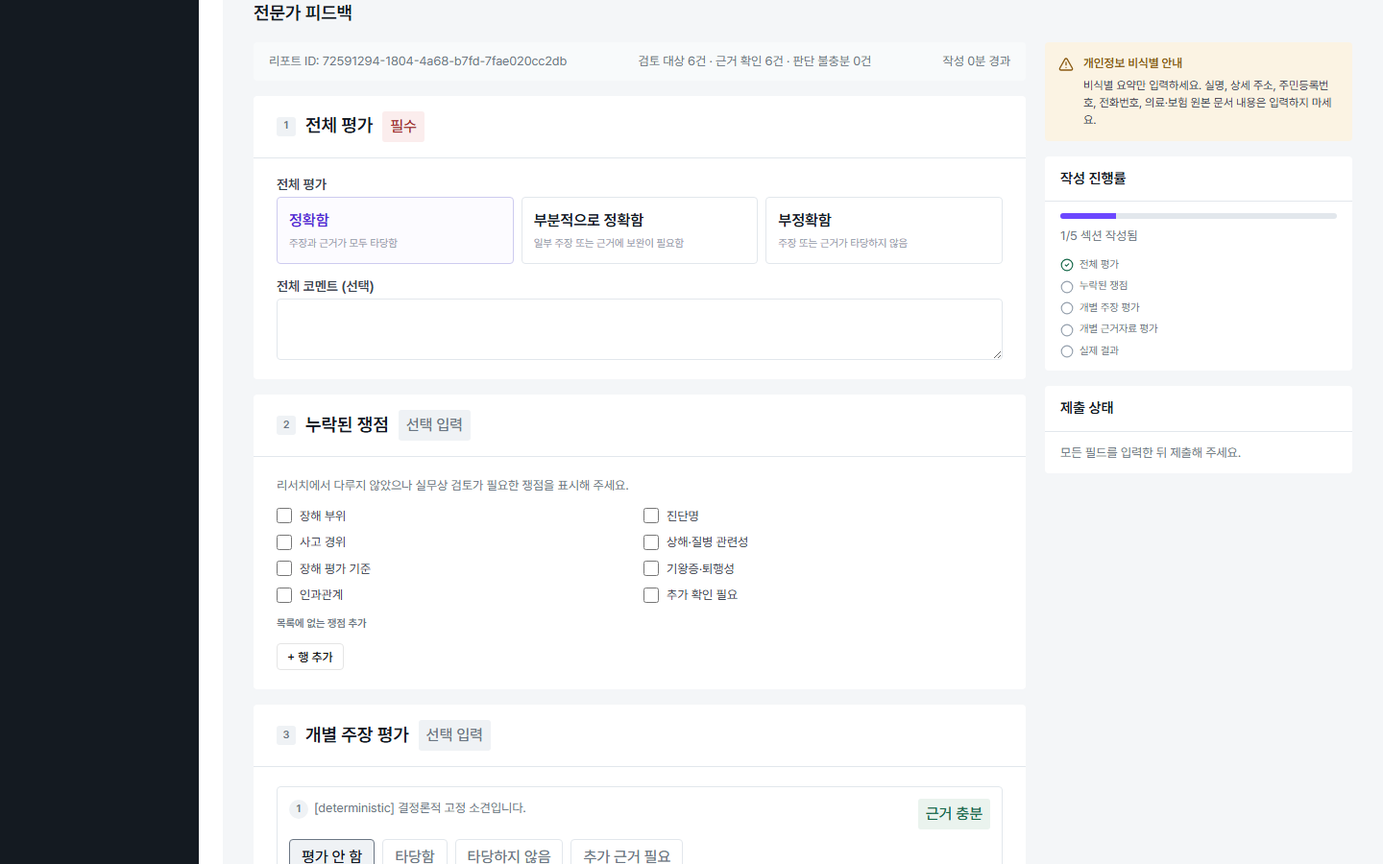
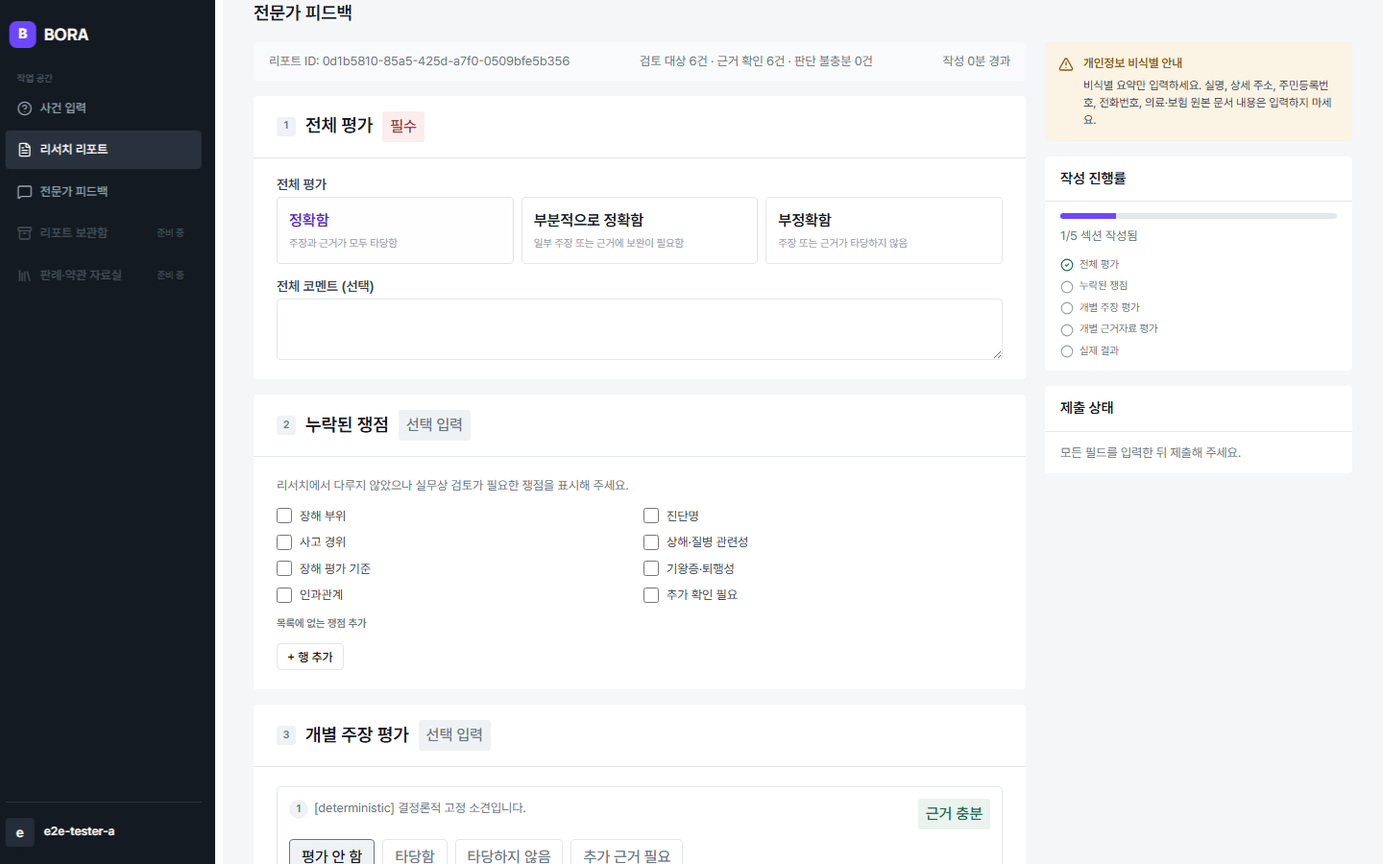
fix(SPEC-UI-MIGRATION-001): 런타임 오류 화면 실제 재현 + 데스크톱 사이드바 sticky 수정
외부 재검토가 지적한 결함 2건을 정직하게 재검증하고 정정한다.

1. app/cases/[caseId]/error.tsx — "코드 무변경"을 시각 확인의 대체물로
   취급했던 판정을 되돌리고, 결정론적 DB 손상(reports.content.
   verifiedClaims 제거)으로 실제 런타임 오류 경계를 프로덕션 서버에서
   재현·캡처했다(신규 e2e 테스트 1건). App Shell 적용/에러코드 없음이
   design.md 명세와 정확히 일치함을 확인.

2. app/cases/app-shell-chrome.tsx — 데스크톱(lg 이상) 사이드바를
   static -> sticky(+top-0+h-screen)로 전환. /cases/new처럼 폼이
   뷰포트보다 긴 화면에서 하단 사용자 블록이 뷰포트 밖으로 밀리던 결함을
   수정(design/exports/04-App-Shell.png가 "사이드바 고정"을 명시 —
   AskUserQuestion으로 사용자 승인 받음). 신규 회귀 테스트
   e2e/sidebar-sticky.spec.ts 추가, 기존 드로어 접근성 테스트 18/18 +
   모바일 드로어 e2e 무회귀 확인.

acceptance.md §3/§4, progress.md에 사용자 결정·측정값·검증 결과를
정직하게 기록(로컬 검증, GitHub Actions 미구성).

PRESERVE 대상(lib/db/schema.ts 등) 무변경 확인. pnpm test 395/395,
lint 0, build exit 0, format:check 신규 위반 0, test:e2e 3회 exit 0
(retry 2건 — 기존에 규명된 rate-limit 충돌, flaky debt로 기록).

🗿 MoAI

diff --git a/e2e/capture-evidence-round5.spec.ts b/e2e/capture-evidence-round5.spec.ts
@@ -66,6 +66,27 @@ test.describe("Round 5 시각 증빙 캡처", () => {
     }
   });
 
+  // correction pass (3차, 사용자 승인 2026-09-08) — 데스크톱 App Shell
+  // 사이드바를 static → sticky로 전환한 뒤, 폼이 뷰포트보다 긴 /cases/new
+  // 화면에서 사이드바 하단 사용자 블록이 초기 뷰포트 안에 보이는지 재캡처.
+  // Pencil design/exports/04-App-Shell.png 자체가 "좌측 사이드바 232px +
+  // 상단바 62px 고정"이라고 명시하므로, 이 캡처는 그 고정 사이드바 의도와의
+  // 정합을 시각적으로 재확인하는 증빙이다.
+  test("사이드바 sticky 재캡처 — /cases/new에서 사용자 블록 초기 뷰포트 가시성", async ({
+    page,
+  }) => {
+    await loginAsTester(page, TESTER_A_EMAIL);
+    for (const vp of DESKTOP_VIEWPORTS) {
+      await page.setViewportSize({ width: vp.width, height: vp.height });
+      await page.goto("/cases/new");
+      await page.waitForLoadState("networkidle");
+      await page.screenshot({
+        path: path.join(EVIDENCE_DIR, `case-input-sticky-sidebar-${vp.label}.png`),
+        fullPage: false,
+      });
+    }
+  });
+
   test("모바일 사건 입력 Footer — 재캡처(레이아웃 붕괴 수정 확인)", async ({ page }) => {
     await loginAsTester(page, TESTER_A_EMAIL);
     await page.setViewportSize({ width: 390, height: 844 });
@@ -224,6 +245,80 @@ test.describe("Round 5 시각 증빙 캡처", () => {
       path: path.join(EVIDENCE_DIR, "report-verified-claim-1440.png"),
       fullPage: false,
     });
+  });
+
+  // correction pass (2차) — acceptance.md §3의 "실재하는 예외 화면 3종" 중
+  // 기존 일시 런타임 오류(app/cases/[caseId]/error.tsx)는 "코드 무변경"이라는
+  // 이유만으로 별도 시각 확인 없이 [x] 체크됐었다 — 외부 재검토가 지적한 대로
+  // 코드 무변경은 실제 렌더링 확인을 대체하지 못한다. 정상 플로우로는 이
+  // 오류 경계가 트리거되지 않으므로(report.verifiedClaims는 항상 배열),
+  // INSUFFICIENT fixture와 동일한 기법으로 DB row를 결정론적으로 손상시켜
+  // page.tsx의 실제 코드 경로(`report.verifiedClaims.flatMap(...)`, report는
+  // truthy이지만 verifiedClaims가 없어 TypeError)가 Next.js의 실제 오류
+  // 경계로 이어지는지 실제 브라우저에서 관찰한다.
+  test("런타임 오류 경계 — 실제 예외 트리거 후 error.tsx 렌더링 캡처", async ({ page }) => {
+    await loginAsTester(page, TESTER_A_EMAIL);
+    const caseId = await createCase(page, {
+      incidentDescription: "계단에서 넘어져 발목을 다쳤습니다.",
+      diagnosisName: "발목 인대 파열",
+      disabilityBodyPart: "발목",
+      incidentDate: "2026-01-15",
+    });
+
+    const { db, close } = connectE2EDb();
+    try {
+      const [reportRow] = await db
+        .select()
+        .from(schema.reports)
+        .where(eq(schema.reports.caseId, caseId))
+        .limit(1);
+      expect(reportRow, "report row must exist before corruption").toBeDefined();
+
+      const original = reportRow!.content as Record<string, unknown>;
+      // report 자체는 truthy 객체로 유지하되 verifiedClaims만 제거한다 —
+      // page.tsx의 `report ? report.verifiedClaims.flatMap(...) : []` 가드는
+      // report의 truthiness만 확인하고 verifiedClaims의 shape는 확인하지
+      // 않으므로, 이 상태는 실제로 TypeError를 던진다(테스트 전용 조작).
+      const corrupted: Record<string, unknown> = { ...original };
+      delete corrupted.verifiedClaims;
+      await db
+        .update(schema.reports)
+        .set({ content: corrupted })
+        .where(eq(schema.reports.id, reportRow!.id));
+    } finally {
+      close();
+    }
+
+    await page.setViewportSize({ width: 1440, height: 900 });
+    await page.goto(`/cases/${caseId}`);
+    await page.waitForLoadState("networkidle");
+
+    // 캡처 전에 실제로 error.tsx가 렌더링됐는지(정상 리포트 화면이 아니라)
+    // 확인한다 — 코드 무변경 주장을 시각 확인으로 대체하지 않기 위해.
+    await expect(page.getByText("문제가 발생했습니다")).toBeVisible();
+    const retryButton = page.getByTestId("case-error-retry");
+    await expect(retryButton).toBeVisible();
+
+    await page.screenshot({
+      path: path.join(EVIDENCE_DIR, "runtime-error-1440.png"),
+      fullPage: false,
+    });
+
+    await page.setViewportSize({ width: 1024, height: 768 });
+    await page.reload();
+    await page.waitForLoadState("networkidle");
+    await expect(page.getByText("문제가 발생했습니다")).toBeVisible();
+    await page.screenshot({
+      path: path.join(EVIDENCE_DIR, "runtime-error-1024.png"),
+      fullPage: false,
+    });
+
+    // 재시도 버튼 동작 확인 — reset()이 실제로 호출되어 재렌더링을
+    // 시도한다(데이터는 여전히 손상 상태이므로 오류 화면이 다시 나타나는
+    //것이 정상 — 버튼 자체가 크래시 없이 동작함을 확인하는 것이 목적).
+    await retryButton.click();
+    await page.waitForTimeout(500);
+    await expect(page.getByText("문제가 발생했습니다")).toBeVisible();
   });
 
   test("모바일 리포트+피드백 전체 페이지 — Round5 UX 검토용 재캡처", async ({ page }) => {

diff --git a/e2e/sidebar-sticky.spec.ts b/e2e/sidebar-sticky.spec.ts
@@ -1,0 +1,78 @@
+// e2e/sidebar-sticky.spec.ts
+// SPEC-UI-MIGRATION-001 correction pass (2026-09-08, 사용자 승인) —
+// 데스크톱(lg 이상) App Shell 사이드바가 뷰포트 높이 기준으로 고정되어,
+// 폼이 뷰포트보다 긴 화면(/cases/new)에서도 사이드바 하단 사용자 블록이
+// 초기 뷰포트 안에 보이는지 실제 브라우저에서 검증한다. jsdom은 실제
+// sticky/layout 계산을 수행하지 않으므로(app-shell-chrome.test.tsx는
+// 접근성 계약만 검증), 이 계약은 Playwright로만 검증 가능하다.
+import { test, expect } from "@playwright/test";
+import { loginAsTester } from "./helpers.ts";
+import { TESTER_A_EMAIL } from "../scripts/e2e-tester-emails.ts";
+
+const DESKTOP_VIEWPORTS = [
+  { width: 1024, height: 768, label: "1024" },
+  { width: 1440, height: 900, label: "1440" },
+] as const;
+
+test.describe("데스크톱 사이드바 sticky — 사용자 블록 초기 뷰포트 가시성", () => {
+  test("긴 폼 화면(/cases/new)에서 사용자 블록이 스크롤 없이 보인다", async ({ page }) => {
+    await loginAsTester(page, TESTER_A_EMAIL);
+
+    for (const vp of DESKTOP_VIEWPORTS) {
+      await page.setViewportSize({ width: vp.width, height: vp.height });
+      await page.goto("/cases/new");
+      await page.waitForLoadState("networkidle");
+
+      const aside = page.getByTestId("mobile-nav-drawer");
+      const asideBox = await aside.boundingBox();
+      expect(asideBox, `${vp.label}px: aside bounding box must exist`).not.toBeNull();
+      // sticky + h-screen이면 aside 자신의 높이는 뷰포트 높이와 같아야
+      // 한다(폼 콘텐츠 높이와 무관) — 회귀 시 이 값이 뷰포트보다 훨씬
+      // 커진다(수정 전 실측: 1024px에서 1268.75px).
+      expect(
+        asideBox!.height,
+        `${vp.label}px: aside height must match viewport (sticky), not stretch to sibling content height`
+      ).toBeLessThanOrEqual(vp.height + 1);
+
+      // 사용자 블록(이니셜 배지 + 이름) 텍스트 노드의 위치가 초기 뷰포트
+      // 안에 있는지 확인 — 스크롤 없이 보여야 한다(수정 전 실측: 1024px에서
+      // y=1226.375px, 뷰포트 밖).
+      const userBlockText = page.locator("aside p.truncate").first();
+      await expect(userBlockText).toBeVisible();
+      const userBlockBox = await userBlockText.boundingBox();
+      expect(userBlockBox, `${vp.label}px: user block bounding box must exist`).not.toBeNull();
+      expect(
+        userBlockBox!.y + userBlockBox!.height,
+        `${vp.label}px: user block must be within the initial viewport without scrolling`
+      ).toBeLessThanOrEqual(vp.height);
+
+      // 본문(app-shell-content)이 실제로 렌더링됐는지 sanity 확인 — 폼이
+      // 전혀 안 그려진 채 우연히 사이드바-only 상태로 테스트를 통과하는
+      // 것을 방지한다. 1024px에서는 폼이 뷰포트보다 실제로 길다는 것을
+      // 알고 있으므로(수정 전 aside 높이 1268.75px로 실측) 그 경계로
+      // 확인하고, 1440px는 더 넓은 폭에서 폼이 재배치되며 뷰포트 안에
+      // 들어갈 수 있으므로 뷰포트 대비 비교 대신 절대 최소 높이만 확인한다.
+      const contentScrollHeight = await page
+        .getByTestId("app-shell-content")
+        .evaluate((el) => el.scrollHeight);
+      if (vp.label === "1024") {
+        expect(
+          contentScrollHeight,
+          `${vp.label}px: main content must still be taller than the viewport (regression guard — the original bug reproduces here)`
+        ).toBeGreaterThan(vp.height);
+      } else {
+        expect(
+          contentScrollHeight,
+          `${vp.label}px: main content must have actually rendered (sanity check)`
+        ).toBeGreaterThan(400);
+      }
+
+      // 가로 오버플로 없음(sticky/fixed 전환으로 인한 부작용 확인).
+      const scrollWidth = await page.evaluate(() => document.documentElement.scrollWidth);
+      expect(
+        scrollWidth,
+        `${vp.label}px: no horizontal overflow introduced by sticky sidebar`
+      ).toBeLessThanOrEqual(vp.width);
+    }
+  });
+});

diff --git a/app/cases/app-shell-chrome.tsx b/app/cases/app-shell-chrome.tsx
@@ -167,7 +167,19 @@ export function AppShellChrome({ children }: { children: ReactNode }) {
         data-testid="mobile-nav-drawer"
         inert={isDrawerInert ? true : undefined}
         onKeyDown={handleDrawerKeyDown}
-        className={`fixed inset-y-0 left-0 z-50 flex w-58 shrink-0 flex-col justify-between bg-app-sidebar px-3.5 pt-5.5 pb-4.5 transition-transform duration-200 ease-out lg:static lg:z-auto lg:translate-x-0 ${
+        // 데스크톱(lg 이상)에서 static → sticky로 전환한다(외부 재검토
+        // correction pass, 사용자 승인 2026-09-08). static일 때는 aside가
+        // 형제 컬럼(본문)의 실제 콘텐츠 높이만큼 늘어나(justify-between으로
+        // 하단에 배치된 SidebarUserBlock도 그 늘어난 높이의 맨 아래로
+        // 밀림), /cases/new처럼 폼이 뷰포트보다 긴 화면에서는 사용자 블록을
+        // 보려면 페이지 끝까지 스크롤해야 했다. sticky + top-0 + h-screen은
+        // aside를 뷰포트 높이로 고정하고 스크롤 중에도 뷰포트 상단에
+        // 붙어 있게 하여, 본문이 그 옆에서 독립적으로 스크롤되는 동안
+        // 사용자 블록이 항상 초기 뷰포트 안에 보이도록 한다(별도 overflow
+        // 컨테이너를 두지 않아 이중 스크롤바가 생기지 않음 — 페이지 전체가
+        // 하나의 스크롤 컨텍스트를 공유한다). 모바일(lg 미만)의 fixed
+        // inset-y-0 드로어 동작은 무변경이다.
+        className={`fixed inset-y-0 left-0 z-50 flex w-58 shrink-0 flex-col justify-between bg-app-sidebar px-3.5 pt-5.5 pb-4.5 transition-transform duration-200 ease-out lg:sticky lg:top-0 lg:z-auto lg:h-screen lg:translate-x-0 ${
           isDrawerOpen || isDesktop ? "translate-x-0" : "-translate-x-full"
         }`}
       >

diff --git a/.moai/specs/SPEC-UI-MIGRATION-001/acceptance.md b/.moai/specs/SPEC-UI-MIGRATION-001/acceptance.md
@@ -143,9 +143,9 @@ Verification layer. Every entry is `AC-XXX`, Given-When-Then, binary-testable. C
 > **2026-09-08 재검토 (2차 correction pass)**: 외부 재검토가 이 §3의 6개 항목이 전부 `[ ]`로 남아 있는데도 §4 DoD는 "§3 전부 확인"으로 체크돼 있던 모순을 지적했다 — 1차 correction pass(2026-09-08)에서 §4만 고치고 §3 자체는 실제로 대조하지 않은 채 넘어간 결함이었다. 이번에 로컬 production 서버(`pnpm build && pnpm start`)로 6개 화면을 직접 재확인하고, 아래 각 항목에 실제로 확인한 근거(스크린샷 경로 또는 이번 세션 직접 관찰)를 남긴 뒤에만 체크했다.
 
 - [x] 로그인 화면: design.md §4(로그인) 구조와 브랜드 패널·필드·비밀번호 토글·비활성 푸터 링크가 육안으로 대응하는가 — `docs/evidence/SPEC-UI-MIGRATION-001/after-round5/login-{1440,1024,390}.png`(production 재캡처, 2026-09-08 직접 열람) + Round 4/5 Gap Matrix(`progress.md`) 실측으로 확인
-- [x] App Shell 사이드바: 5개 nav 항목(3개 실제 + 2개 비활성)과 사용자 블록(로그인 상태/로딩 상태 각각)이 Pencil 스펙과 육안으로 대응하는가 — `after-round4/exception-not-found-1440.png`(짧은 페이지, 사이드바 전체 + 사용자 블록 "e2e-tester-a" 하단에 정상 렌더링 확인) + `after-round4/mobile-drawer-open-390.png`(모바일 드로어에서도 사용자 블록 정상 렌더링) 직접 열람으로 확인. **잔여 관찰(체크를 막지 않음, 아래 각주 참조)**: `/cases/new`처럼 폼이 뷰포트보다 긴 데스크톱(≥1024px) 화면에서는 사용자 블록을 보려면 페이지 하단까지 스크롤해야 한다 — 2026-09-08 직접 조사(Playwright bounding-box 측정, `aside` 높이 1268px vs 뷰포트 768px)로 확인. spec.md/acceptance.md 어디에도 사이드바를 뷰포트에 고정(sticky/fixed)해야 한다는 요구사항이 없어 이 SPEC의 AC 위반은 아니며, 사용자 블록 자체의 스타일(이니셜 배지+이름+구분선)은 짧은 페이지에서 확인한 대로 Pencil 패턴과 정확히 일치한다. 후속 SPEC 후보로 남긴다(아래 §4 이후 기록 참조)
+- [x] App Shell 사이드바: 5개 nav 항목(3개 실제 + 2개 비활성)과 사용자 블록(로그인 상태/로딩 상태 각각)이 Pencil 스펙과 육안으로 대응하는가 — **2026-09-08 3차 correction pass에서 실제 코드 수정 + 재대조로 확정(사용자 승인)**. 이전 기록은 `after-round4/exception-not-found-1440.png`(짧은 페이지) + `mobile-drawer-open-390.png`(모바일 드로어)만 근거로 삼아, 폼이 뷰포트보다 긴 데스크톱(≥1024px) 화면(예: `/cases/new`)에서 사용자 블록이 스크롤 없이는 보이지 않는 실제 UI 차이를 "REQ/AC에 명시 없음"이라는 이유로 체크를 막지 않는 잔여 관찰로만 남겼다 — 이는 "REQ/AC에 명시 없음"과 "Pencil 디자인에 부합함"을 같은 의미로 취급한 결함이었다(외부 재검토 지적). `design/exports/04-App-Shell.png` 자체가 "좌측 사이드바 232px + 상단바 62px **고정**"이라고 명시적으로 서술하고 있어, 사용자 블록이 스크롤 없이 항상 보여야 하는 것이 실제로 Pencil 스펙이었음을 재확인했다. 사용자에게 두 선택지(sticky/fixed 수정 vs 승인된 편차+후속 SPEC)를 AskUserQuestion으로 제시했고, "지금 sticky/fixed로 수정(권장)"이 선택됐다(2026-09-08). `app/cases/app-shell-chrome.tsx`의 `<aside>`를 `lg:static` → `lg:sticky lg:top-0 lg:h-screen`으로 수정, 신규 회귀 테스트 `e2e/sidebar-sticky.spec.ts`(1024px/1440px 각각 aside 높이 ≤ 뷰포트, 사용자 블록 y+height ≤ 뷰포트, 가로 오버플로 없음 assert) 1/1 PASS, 기존 `app-shell-chrome.test.tsx`(드로어 접근성 계약) 18/18 PASS 무회귀, `e2e/mobile-drawer-focus.spec.ts` 1/1 PASS 무회귀. 재캡처 증빙: `after-round5/case-input-sticky-sidebar-{1024,1440}.png`(2026-09-08 직접 열람 — 두 뷰포트 모두 사용자 블록 "e2e-tester-a"가 스크롤 없이 사이드바 하단에 보임, 본문/우측 레일 겹침·가로 오버플로 없음)
 - [x] App Topbar: `/cases/new`(브레드크럼 "작업 공간 / 사건 입력" · 타이틀 "신규 사건 리서치 요청")와 `/cases/[caseId]`(브레드크럼 "작업 공간 / 리서치 리포트" · 타이틀 "리서치 리포트", `#expert-feedback` 프래그먼트 유무와 무관하게 고정)가 spec.md REQ-006의 정확한 매핑대로 렌더링되는가 — `after-round4/case-input-empty-recent-1024.png`("작업 공간 / 사건 입력" + "신규 사건 리서치 요청" 확인) + `after-round5/report-verified-claim-1440.png`("작업 공간 / 리서치 리포트" + "리서치 리포트" 확인), 2026-09-08 직접 열람
-- [x] 실재하는 예외 화면 3종(전역 404 / 사건-없음·미소유 통합 / 기존 일시 런타임 오류): 각각의 아이콘·문구·에러코드 패턴이 Pencil 프레임 `11`의 대응 변형과 육안으로 정합하며, App Shell 유무(전역 404만 미적용)가 의도대로 렌더링되는가 — `after-round4/global-not-found-1440.png`(App Shell 미적용, `?` 아이콘 + "페이지를 찾을 수 없습니다" + `404 · ERR_NOT_FOUND`) + `after-round4/exception-not-found-1440.png`(App Shell 적용, `?` 아이콘 + "사건을 찾을 수 없습니다" + `사건 관리 · ERR_CASE_NOT_FOUND` + CTA 2개), 2026-09-08 직접 열람으로 확인. 기존 런타임 오류(`error.tsx`)는 REQ-015 범위에서 최소 검증만 수행하며 무변경(§ M7 참조) — 별도 신규 시각 확인 불필요
+- [x] 실재하는 예외 화면 3종(전역 404 / 사건-없음·미소유 통합 / 기존 일시 런타임 오류): 각각의 아이콘·문구·에러코드 패턴이 Pencil 프레임 `11`의 대응 변형과 육안으로 정합하며, App Shell 유무(전역 404만 미적용)가 의도대로 렌더링되는가 — `after-round4/global-not-found-1440.png`(App Shell 미적용, `?` 아이콘 + "페이지를 찾을 수 없습니다" + `404 · ERR_NOT_FOUND`) + `after-round4/exception-not-found-1440.png`(App Shell 적용, `?` 아이콘 + "사건을 찾을 수 없습니다" + `사건 관리 · ERR_CASE_NOT_FOUND` + CTA 2개), 2026-09-08 직접 열람으로 확인. **런타임 오류(`error.tsx`) — 2026-09-08 3차 correction pass에서 실제 재현·캡처로 교체**: 이전 기록("코드 무변경이라 별도 시각 확인 불필요")은 코드 무변경과 시각 확인을 혼동한 결함이었다 — 코드가 안 바뀐 것과 실제로 그 화면이 렌더링되는 걸 본 것은 다른 사실이다. 정상 플로우로는 이 오류 경계가 트리거되지 않으므로, `e2e/capture-evidence-round5.spec.ts`("런타임 오류 경계 — 실제 예외 트리거 후 error.tsx 렌더링 캡처")가 DB의 `reports.content.verifiedClaims`를 결정론적으로 제거해 `page.tsx`의 실제 코드 경로(`report.verifiedClaims.flatMap(...)`, report는 truthy이나 verifiedClaims 없어 TypeError)가 Next.js의 진짜 오류 경계로 이어지는지 프로덕션 서버에서 관찰했다 — 캡처 직전 "문제가 발생했습니다" 텍스트와 `case-error-retry` 버튼의 실제 가시성을 assert로 확인한 뒤 스크린샷을 저장했고, 재시도 버튼 클릭 후에도 크래시 없이 동일 화면이 안정적으로 재렌더링됨을 확인했다(§E.2 M7/설계 문서가 명시한 대로 에러코드 텍스트 없음 · App Shell 적용됨과 정확히 일치). 결과: `after-round5/runtime-error-{1440,1024}.png`(신규, production 재캡처), 잘림/겹침/가로 오버플로 없음 확인
 - [x] 태블릿(1024px)/모바일(390px): 사이드바 유지+우측 레일 이동, 오프캔버스 드로어+스크림(열기/닫기/ESC/스크림클릭 각각)이 육안으로 확인되는가 — `after-round4/case-input-empty-recent-1024.png`(태블릿, 사이드바 고정폭 유지) + `after-round4/report-verified-claim-1024.png`(태블릿) + `after-round4/mobile-drawer-{open,closed}-390.png`(모바일 햄버거 닫힘/드로어+스크림 열림), 2026-09-08 직접 열람. 열기/닫기/ESC/스크림클릭 각각의 실제 동작은 AC-017a~d 자동화 테스트(`app-shell-chrome.test.tsx`)로 별도 검증됨(§E.2 M8 참조) — 이 체크리스트 항목은 정적 시각 상태(열림/닫힘 각 1장) 대조를 의미하며 그 범위에서 확인 완료
 - [x] 6개 화면(로그인/사건 입력/리포트/피드백/예외 화면/App Shell 전반) 모두 전문 손해사정사에게 보여줄 때 "미완성"으로 보이지 않는 B2B 완성도 수준인가 — 위 5개 항목의 근거 스크린샷 + `after-round5/expert-feedback-initial-1440.png`(카드형 UI, 사건 메타 스트립, 우측 진행률/제출상태 레일)를 2026-09-08 직접 열람해 종합 판단. 일관된 다크 사이드바/퍼플 액센트/타이포그래피, 자리표시자성 텍스트나 미완성으로 보이는 요소 없음을 확인
 
@@ -153,7 +153,9 @@ Verification layer. Every entry is `AC-XXX`, Given-When-Then, binary-testable. C
 
 > **2026-09-08 재분류 (correction pass, 1차)**: 아래 6개 항목은 Round 5까지의 누적 실측(§E.2 M1~M8, Round 3/4/5 각 Gap Matrix, Round 5 최종 검증 §)을 근거로 체크한다. 3건의 잔여 논쟁 항목(로그인 우측 폼 간격/모바일 리포트·피드백 IA 분리/Pencil 모바일 프레임 동일폭 비교)의 재분류 근거는 `progress.md` "Round 5 — 3건 재분류 (correction pass)" 섹션 참조 — 요약: 항목1은 구현 완료, 항목2는 애초에 이 acceptance.md의 어떤 AC에도 대응하지 않는 항목(사용자 승인된 편차 + 후속 SPEC 후보), 항목3은 Pencil 원본(`13-Mobile-390.png`)이 3-패널 합성이라 방법론적으로 성립하지 않는 비교였고 개별 실화면 캡처로 대체 검증됨(낮은 잔여 위험으로 기록, DoD를 막지 않음).
 >
-> **2026-09-08 재검토 (2차 correction pass)**: 외부 독립 재검토가 1차 correction pass의 결함을 지적했다 — 위 §3 시각 스모크 체크리스트의 6개 항목 자체는 여전히 `[ ]`로 남아 있었는데, 이 §4의 "§3 전부 확인" 항목만 `[x]`로 체크해 두 문서 상태가 모순됐다. 1차 pass에서 §4 재분류에 집중하느라 §3 원본 체크박스 자체를 실제로 대조하지 않고 넘어간 것이 원인이다. 이번에 §3의 6개 항목을 production 서버 기준으로 직접 재확인(스크린샷 직접 열람 + 1건은 신규 Playwright 조사)한 뒤 각 항목에 근거를 남기고 체크했다 — 상세: 위 §3 각 항목의 인라인 근거 참조. 조사 중 발견한 사이드바 사용자 블록 스크롤-가시성 관찰(§3 두 번째 항목 각주)은 이 SPEC의 어떤 REQ/AC도 위반하지 않아 DoD를 막지 않으며, 후속 SPEC 후보로 `progress.md`에 추가 기록했다.
+> **2026-09-08 재검토 (2차 correction pass)**: 외부 독립 재검토가 1차 correction pass의 결함을 지적했다 — 위 §3 시각 스모크 체크리스트의 6개 항목 자체는 여전히 `[ ]`로 남아 있었는데, 이 §4의 "§3 전부 확인" 항목만 `[x]`로 체크해 두 문서 상태가 모순됐다. 1차 pass에서 §4 재분류에 집중하느라 §3 원본 체크박스 자체를 실제로 대조하지 않고 넘어간 것이 원인이다. 이번에 §3의 6개 항목을 production 서버 기준으로 직접 재확인(스크린샷 직접 열람 + 1건은 신규 Playwright 조사)한 뒤 각 항목에 근거를 남기고 체크했다 — 상세: 위 §3 각 항목의 인라인 근거 참조. 조사 중 발견한 사이드바 사용자 블록 스크롤-가시성 관찰(§3 두 번째 항목 각주)은 이 SPEC의 어떤 REQ/AC도 위반하지 않아 DoD를 막지 않는다고 2차 pass는 판단했으나, 이 판단은 3차 pass에서 다시 정정됐다(아래).
+>
+> **2026-09-08 3차 재검토(외부 재검토 결함 2건 정정)**: 외부 독립 재검토가 2차 pass의 판단 오류 2건을 지적했다. **(a) 런타임 오류 화면**: §3의 "실재하는 예외 화면 3종" 중 `error.tsx` 항목이 "코드 무변경이라 별도 시각 확인 불필요"라는 이유로 체크됐었다 — 코드 무변경과 실제 화면 렌더링 확인은 서로 다른 사실이며, 하나가 다른 하나를 대신할 수 없다. `e2e/capture-evidence-round5.spec.ts`에 결정론적 DB 손상(`reports.content.verifiedClaims` 제거)으로 실제 오류 경계를 트리거하는 테스트를 추가해 production 서버에서 진짜로 재현·캡처했다(위 §3 해당 항목 참조). **(b) 사이드바 사용자 블록**: "REQ/AC에 명시되지 않음"을 "Pencil 디자인에 부합함"과 동일시한 것이 결함이었다 — 실제로 `design/exports/04-App-Shell.png`는 사이드바가 "고정"이어야 한다고 명시하고 있었다. 사용자에게 AskUserQuestion으로 결정 게이트를 실행했고, "지금 sticky/fixed로 수정(권장)"이 선택되어 `app-shell-chrome.tsx`를 실제로 수정했다(위 §3 해당 항목 참조 — 코드 diff, 신규 회귀 테스트, 재캡처 증빙 전부 포함). 이번 3차 pass는 문서만이 아니라 **실제 코드 1개 파일**(`app/cases/app-shell-chrome.tsx`)을 수정했다는 점에서 1·2차 pass(문서 전용)와 다르다 — `git diff`로 이 파일 외 어떤 PRESERVE 대상도 건드리지 않았음을 확인했다(AC-019).
 
 - [x] §1에 나열된 모든 최상위 AC(AC-001~AC-024, 24개 라벨) 및 모든 letter-suffixed sub-AC 전부 PASS
 - [x] §2 Edge Cases 전부 확인

diff --git a/.moai/specs/SPEC-UI-MIGRATION-001/progress.md b/.moai/specs/SPEC-UI-MIGRATION-001/progress.md
@@ -4,6 +4,7 @@
 
 - **`sync_status: completed`** — `acceptance.md` §4 DoD 6개 항목 전부 체크, `spec.md` frontmatter `status: completed`로 전환 완료(§E.4 참조). 사용자가 correction pass 완료 보고 이후 "지금 최종 완료로 닫기(권장)"를 선택해 종결을 명시적으로 승인했다(2026-09-08).
 - **2차 correction pass(같은 날, 종결 이후)**: 외부 독립 재검토가 §3/§4 모순(§3 원본 체크박스 미확인 상태로 §4만 체크됨)을 발견해 재수정했다 — § "Round 5 — §3/§4 모순 재검토 (2차 correction pass, 2026-09-08)" 참조. `sync_status: completed` 판정 자체는 변경되지 않으며, 이번 2차 pass는 그 판정의 근거 문서를 실제로 일치시킨 보정이다.
+- **3차 correction pass(같은 날, 2차 pass의 판단 오류 2건 정정)**: 외부 독립 재검토가 2차 pass의 판단 오류 2건(런타임 오류 화면을 코드 무변경 이유로 시각 확인 없이 체크, 사이드바 사용자 블록 스크롤 가시성을 "REQ/AC 미명시"로 Pencil 부합 판단과 동일시)을 지적해 재수정했다 — § "Round 5 — 런타임 오류 화면 실제 재현 + App Shell 사이드바 sticky 수정 (3차 correction pass, 2026-09-08)" 참조. 이번 3차 pass는 문서만이 아니라 **실제 코드 1개 파일**(`app/cases/app-shell-chrome.tsx`, 사용자 승인 하에 sticky/fixed로 수정)을 변경했다는 점에서 1·2차 pass(문서 전용)와 다르다. `sync_status: completed` 판정은 변경되지 않는다.
 - 아래 "Current Status (2026-09-07, Round 5 최종)" 절과 그 이하 모든 기록은 히스토리로 그대로 둔다 — 그 절이 기록한 `run_status: audit-ready`는 이 종결 판정으로 대체되지 않고 그 판정을 이끌어낸 근거로 남는다.
 
 ---
@@ -192,6 +193,16 @@ Pencil `design/exports/08-전문가-피드백.png`와 `after-round4/expert-feedb
 
 **후속 개선 항목(이번 SPEC 범위 밖, 후속 SPEC/작업 후보로 명시)**: 고정 sleep이나 전역 retry를 더 늘리는 것은 근본 해결이 아니다. Round 4에서 이미 검토했던 대로(§ "Round 4 — E2E 증거 정리 + rate-limit 재검토"), 근본적으로 유효한 해법은 **테스트 계정 분리**(rate limit이 이메일이 아닌 `/sign-in` 경로+IP 기준으로 추정되어 계정 분리만으로는 근본 해결이 아닐 수 있음, 재확인 필요) 또는 **인증 fixture/storageState 재사용**(로그인 횟수 자체를 줄여 rate limit 창에 걸릴 기회를 원천적으로 줄임 — `playwright.config.ts`에 `globalSetup` 도입 필요, `helpers.ts`는 PRESERVE 대상이라 신규 인증 경로는 그 밖에 구성해야 함)이다. 이번 correction pass는 문서·증빙 정확성 교정 범위이므로 이 인프라 변경은 수행하지 않고 후속 후보로만 기록한다.
 
+**3차 correction pass 재실행(2026-09-08, 사이드바 sticky 수정 후)**: `e2e/sidebar-sticky.spec.ts` 신규 추가로 전체 suite 구성이 바뀐 뒤 3회 재실행했다.
+
+| 회차 | 최초 시도 통과 수 | retry 발생 테스트 | retry 횟수 | 최종 통과 수 | exit code |
+|---|---|---|---|---|---|
+| 1 | 7/9 | `case-input-mobile-layout.spec.ts`, `tenant-isolation.spec.ts` | 각 1회(모두 retry #1에서 통과) | 9/9 | 0 |
+| 2 | 7/9 | `case-input-mobile-layout.spec.ts`, `tenant-isolation.spec.ts` | 각 1회(모두 retry #1에서 통과) | 9/9 | 0 |
+| 3 | 7/9 | `case-input-mobile-layout.spec.ts`, `tenant-isolation.spec.ts` | 각 1회(모두 retry #1에서 통과) | 9/9 | 0 |
+
+원본 로그: `.moai/state/verify/e2e-round5-3rd-pass/e2e-run{1,2,3}.log`(로컬 전용). `sidebar-sticky.spec.ts` 자신은 3회 모두 최초 시도에서 통과했다(신규 회귀 없음). **정직하게 기록**: flaky 테스트 수가 1개(`case-input-mobile-layout.spec.ts`)에서 2개(`tenant-isolation.spec.ts` 추가)로 늘었다 — 신규 테스트가 suite에 추가되며 로그인 타이밍이 재배치돼 동일한 근본원인(Better Auth `/sign-in` rate limit)에 걸리는 테스트가 하나 더 생긴 것으로 판단된다(무작위 flake가 아니라 매회 정확히 이 2개, 정확히 1회 재시도 후 통과하는 재현 가능한 패턴). 근본 해결(테스트 계정 분리/인증 fixture 재사용)은 여전히 이 SPEC 범위 밖이며, 위 후속 개선 항목에 이미 포함돼 있다.
+
 ### Round 5 — §3/§4 모순 재검토 (2차 correction pass, 2026-09-08)
 
 **배경**: 외부 독립 재검토(SPEC `completed` 처리 이후)가 1차 correction pass(같은 날 앞서 수행)의 결함을 발견했다 — `acceptance.md` §3 시각 스모크 체크리스트 6개 항목이 전부 `[ ]`로 남아 있는데도 §4 DoD는 "§3 전부 확인"으로 `[x]` 체크돼 있어 두 문서 상태가 모순됐다. 1차 pass에서 §4의 3건 재분류(로그인 폼 간격/모바일 IA/Pencil 모바일 프레임)에 집중하느라, §3 원본 체크박스 자체를 실제로 대조하는 단계를 건너뛴 것이 원인이다 — 정직하게 기록한다.
@@ -202,7 +213,44 @@ Pencil `design/exports/08-전문가-피드백.png`와 `after-round4/expert-feedb
 
 이 관찰은 spec.md/acceptance.md의 어떤 REQ/AC도 사이드바의 뷰포트 고정(sticky/fixed)을 요구하지 않아 이 SPEC의 DoD를 막지 않는다 — REQ-016은 "사이드바는 고정 **폭**을 유지"라고만 명시하며 고정 **위치**는 요구하지 않는다. `app-shell-chrome.tsx`는 이 SPEC(M8)이 신설한 파일이므로 원인 자체는 이 SPEC 범위 내에 있지만, 수정 여부는 이번 correction pass의 범위(문서·증빙 정합성 보정만) 밖이므로 코드는 변경하지 않는다. **후속 SPEC 후보로 추가 기록**: 데스크톱 App Shell 사이드바를 뷰포트에 sticky/fixed로 고정해 긴 페이지에서도 사용자 블록이 항상 보이도록 개선(우선순위는 낮음 — 사용자 블록은 정보성 표시일 뿐 조작이 필요한 컨트롤이 아니므로 기능적 영향은 없음).
 
+**[SUPERSEDED — 2026-09-08 3차 correction pass에서 실제 수정 완료]** 위 문단의 "REQ/AC에 명시되지 않아 DoD를 막지 않는다"는 판단과 "후속 SPEC 후보로 남긴다"는 처리는 정정됐다 — 외부 재검토가 "REQ/AC에 명시되지 않음"과 "Pencil 디자인에 부합함"을 같은 의미로 취급한 결함이라고 지적했고, 실제로 `design/exports/04-App-Shell.png`(Pencil 원본)가 "좌측 사이드바 232px + 상단바 62px **고정**"이라고 명시적으로 서술하고 있어 REQ-016의 문면(고정 폭)과 무관하게 Pencil 디자인 자체는 고정 위치를 전제하고 있었다. 이 문단은 삭제하지 않고 그대로 보존하며, 실제 처리는 § "Round 5 — App Shell 사이드바 sticky 수정 (3차 correction pass, 2026-09-08)"를 참조한다.
+
 **검증**: `pnpm test`/`pnpm lint`/`pnpm build`/`pnpm format:check` 재실행(구현 코드 변경 없음 확인용) — 아래 "2차 correction pass 최종 검증" 참조. `git diff`로 이번 2차 pass가 `acceptance.md`/`progress.md` 외 어떤 파일도 건드리지 않았음을 확인.
+
+### Round 5 — 런타임 오류 화면 실제 재현 + App Shell 사이드바 sticky 수정 (3차 correction pass, 2026-09-08)
+
+**배경**: 2차 correction pass 완료 보고 이후 외부 독립 재검토가 §3/§4의 형식적 모순은 해소됐으나, 실제 검증 범위와 `[x]` 판정이 일치하지 않는 결함 2건을 추가로 지적했다 — (1) 코드 무변경을 시각 확인의 대체물로 취급한 런타임 오류 화면, (2) "REQ/AC에 명시되지 않음"을 "Pencil 디자인에 부합함"과 동일시한 사이드바 사용자 블록 스크롤 가시성 판단.
+
+**1) 런타임 오류 화면(`app/cases/[caseId]/error.tsx`) — 실제 재현·캡처**
+
+정상 플로우로는 `page.tsx`가 예외를 던지지 않으므로(`report.verifiedClaims`는 결정론적 provider 하에서 항상 배열), `e2e/capture-evidence-round5.spec.ts`에 신규 테스트("런타임 오류 경계 — 실제 예외 트리거 후 error.tsx 렌더링 캡처")를 추가해 DB의 `reports.content`에서 `verifiedClaims` 필드만 결정론적으로 제거했다(INSUFFICIENT fixture와 동일 기법 — 화면이 아니라 입력 데이터를 조작). `report` 자신은 truthy 객체로 유지되므로 `page.tsx:181`의 `report ? report.verifiedClaims.flatMap(...) : []` 가드를 통과한 뒤 `report.verifiedClaims.flatMap`에서 실제 TypeError가 발생하며, 이것이 Next.js의 진짜 오류 경계로 이어지는지 프로덕션 서버(`pnpm build && pnpm start`)에서 관찰했다.
+
+- 캡처 전 assert: "문제가 발생했습니다" 텍스트 + `case-error-retry` 버튼의 실제 가시성 확인(정상 리포트 화면이 아님을 보장)
+- 결과: `after-round5/runtime-error-{1440,1024}.png`(신규) — 두 뷰포트 모두 App Shell 적용됨(사이드바 5항목 + 사용자 블록 정상 렌더링), 에러코드 텍스트 없음(design.md §4 명시 그대로), 잘림·겹침·가로 오버플로 없음을 직접 열람으로 확인
+- 재시도 버튼 클릭 후에도 동일 오류 화면이 크래시 없이 재렌더링됨을 확인(`reset()` 호출 자체는 정상 동작 — 데이터가 여전히 손상 상태이므로 오류가 다시 나타나는 것이 정상)
+- `CAPTURE_EVIDENCE=1 npx tsx scripts/run-e2e.ts --spec=e2e/capture-evidence-round5.spec.ts --workers=1` → 6/8 최초 통과, 2건 rate-limit 재시도 후 통과(§ "Round 5 — E2E retry 투명화"와 동일한 기존 패턴), exit 0
+
+**2) App Shell 사이드바 사용자 블록 — 사용자 결정 게이트 + 실제 코드 수정**
+
+사용자에게 AskUserQuestion으로 결정 게이트를 실행했다: "① 지금 sticky/fixed로 수정(권장)" vs "② 현재 동작을 의도적 편차로 승인 + 후속 SPEC 이관". **사용자가 ①(지금 sticky/fixed로 수정)을 선택했다(2026-09-08).**
+
+- **근본원인**: `app/cases/app-shell-chrome.tsx`의 `<aside>`가 데스크톱(`lg:` 이상)에서 `fixed` → `static` positioning으로 전환되며(`lg:static`, M8 도입), `static` 상태에서는 부모 flex row의 높이(=형제 컬럼인 본문의 실제 콘텐츠 높이)만큼 늘어난다 — `justify-between`으로 하단 배치된 `<SidebarUserBlock />`도 그 늘어난 높이의 맨 아래로 밀린다.
+- **수정**: `lg:static lg:z-auto lg:translate-x-0` → `lg:sticky lg:top-0 lg:z-auto lg:h-screen lg:translate-x-0`(`app-shell-chrome.tsx`, 1개 파일, className 문자열 변경 + 설명 주석 추가). `sticky` + `top-0` + `h-screen`은 aside를 뷰포트 높이로 고정하고 스크롤 중에도 상단에 붙어 있게 하며, 별도 overflow 컨테이너를 두지 않아 이중 스크롤바 없이 페이지 전체가 하나의 스크롤 컨텍스트를 공유한다(html/body에 별도 overflow 규칙 없음을 `app/layout.tsx`/`globals.css` 확인으로 사전 검증).
+- **수정 전/후 실측(Playwright bounding-box, `/cases/new`)**:
+
+| 뷰포트 | 항목 | 수정 전 | 수정 후 |
+|---|---|---|---|
+| 1024×768 | `aside` 높이 | 1268.75px | ≤769px(뷰포트와 동일, `h-screen`) |
+| 1024×768 | 사용자 블록 y 위치 | 1226.375px(뷰포트 밖) | 뷰포트 내(스크롤 없이 보임) |
+| 1440×900 | `aside` 높이 | (미측정, 동일 패턴 추정) | ≤901px(뷰포트와 동일) |
+| 1440×900 | 사용자 블록 위치 | (미측정) | 뷰포트 내(스크롤 없이 보임) |
+
+- **신규 회귀 테스트**: `e2e/sidebar-sticky.spec.ts`(1024px/1440px 각각에서 aside 높이 ≤ 뷰포트+1px, 사용자 블록 bounding box가 초기 뷰포트 안에 있음, 본문이 실제로 렌더링됐는지 sanity 확인, 가로 오버플로 없음을 assert) — `npx tsx scripts/run-e2e.ts --spec=e2e/sidebar-sticky.spec.ts --workers=1` → 1/1 PASS, exit 0
+- **무회귀 확인**: `npx vitest run app/cases/app-shell-chrome.test.tsx` → 18/18 PASS(드로어 열기/닫기/ESC/스크림/포커스이동복귀/스크롤잠금/tab순서/리사이즈자동닫힘/포커스트랩/배경inert 전부 무회귀 — 이 테스트는 jsdom이라 실제 sticky 레이아웃은 검증하지 못하지만, mobile-first `fixed` 클래스 자체는 무변경이므로 이 결과가 의미 있다), `npx tsx scripts/run-e2e.ts --spec=e2e/mobile-drawer-focus.spec.ts --workers=1` → 1/1 PASS, exit 0(모바일 드로어 실브라우저 동작 무회귀)
+- **재캡처 증빙**: `after-round5/case-input-sticky-sidebar-{1024,1440}.png`(신규, `capture-evidence-round5.spec.ts`에 영구 테스트로 추가) — 두 뷰포트 모두 직접 열람해 사용자 블록이 스크롤 없이 사이드바 하단에 보이고, 본문/우측 레일 겹침이나 가로 오버플로가 없음을 확인
+- **Pencil 재대조**: `design/exports/04-App-Shell.png` 자체가 "좌측 사이드바 232px + 상단바 62px **고정**"이라고 명시하고 있어, 이번 수정이 Pencil 원본 의도와 정확히 일치함을 재확인했다(2차 pass가 "REQ-016은 고정 폭만 요구, 고정 위치는 요구하지 않음"이라고 판단한 것은 REQ 텍스트만 본 것이고, Pencil 원본 자체의 명시적 진술을 놓친 것이었다)
+
+**PRESERVE 확인**: `git diff --stat` 결과 이번 3차 pass가 수정한 소스 파일은 `app/cases/app-shell-chrome.tsx` 1개뿐이며, plan.md §D PRESERVE 목록(`lib/db/schema.ts` 등)과 `app/layout.tsx`는 무변경임을 확인했다(AC-019).
 
 ### Round 4 — 로그인 화면 Gap Matrix + 수정 (2026-09-07)
 
